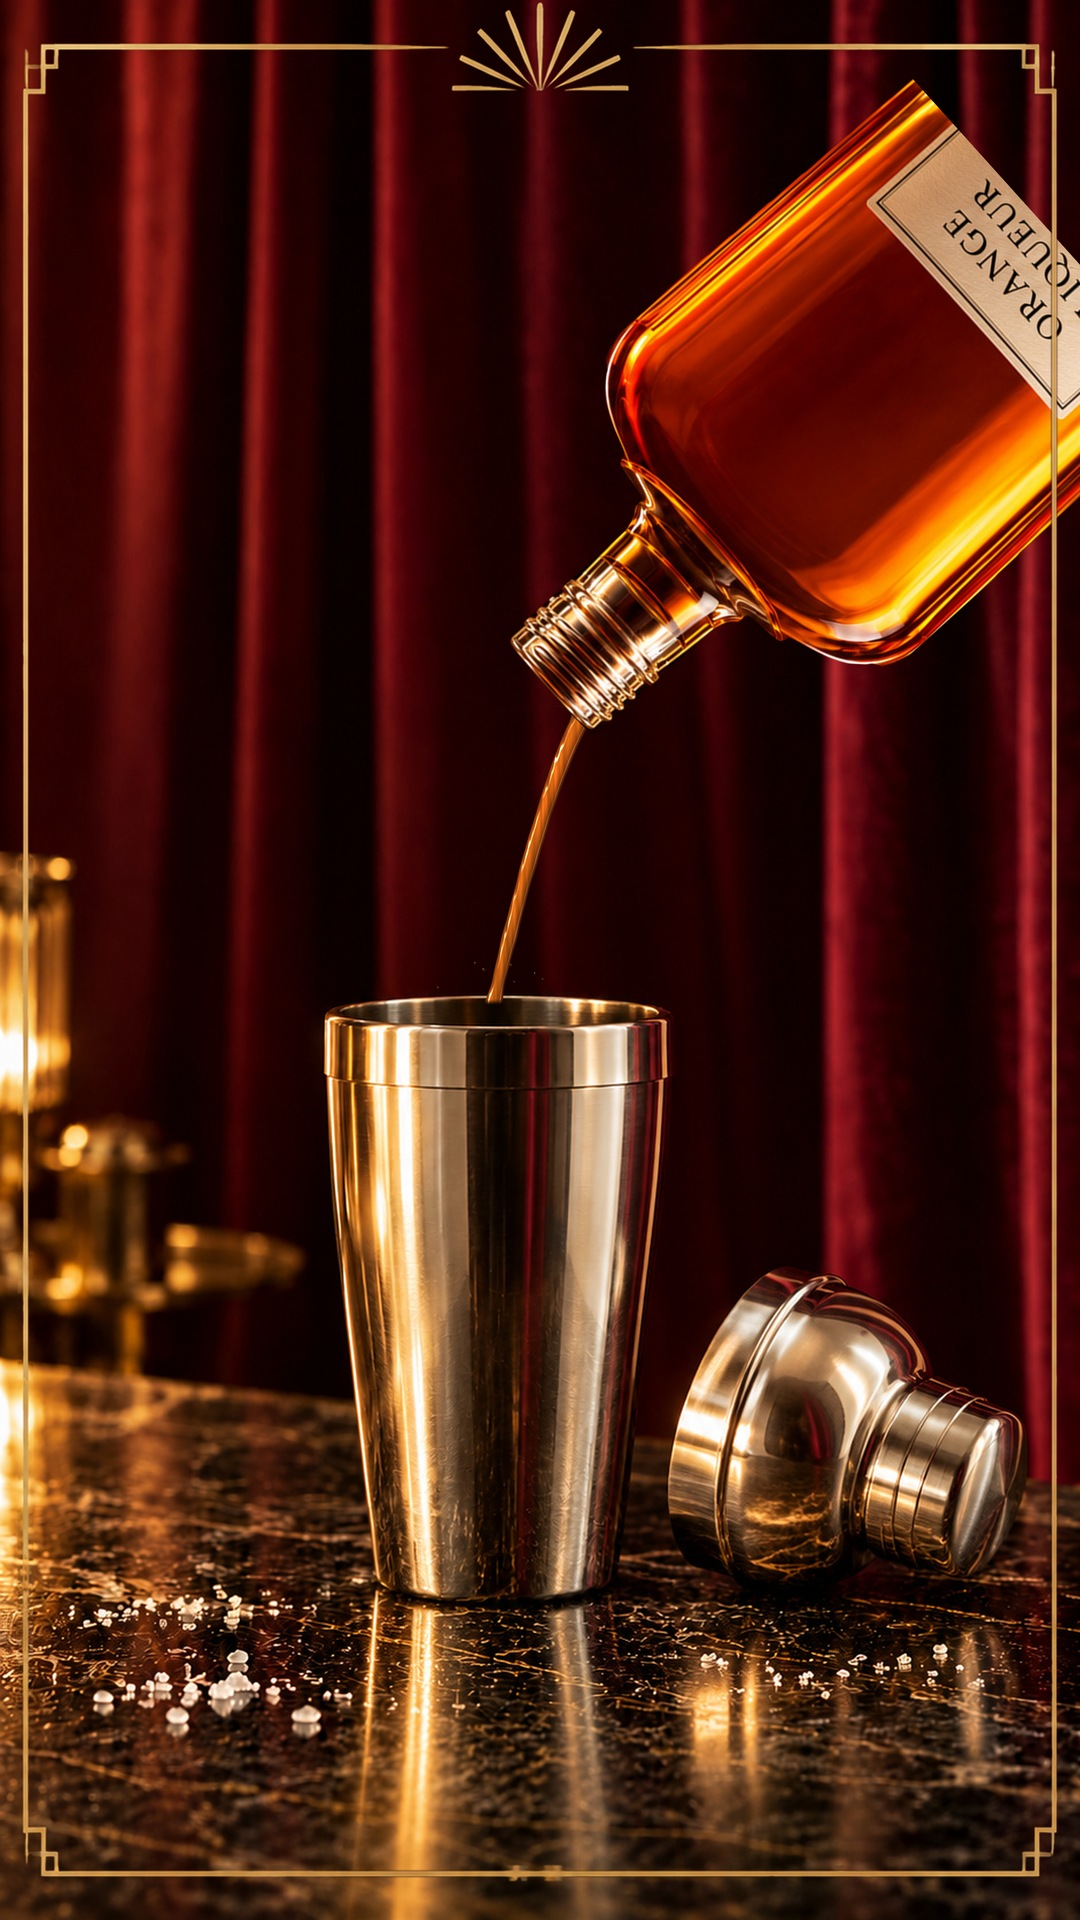
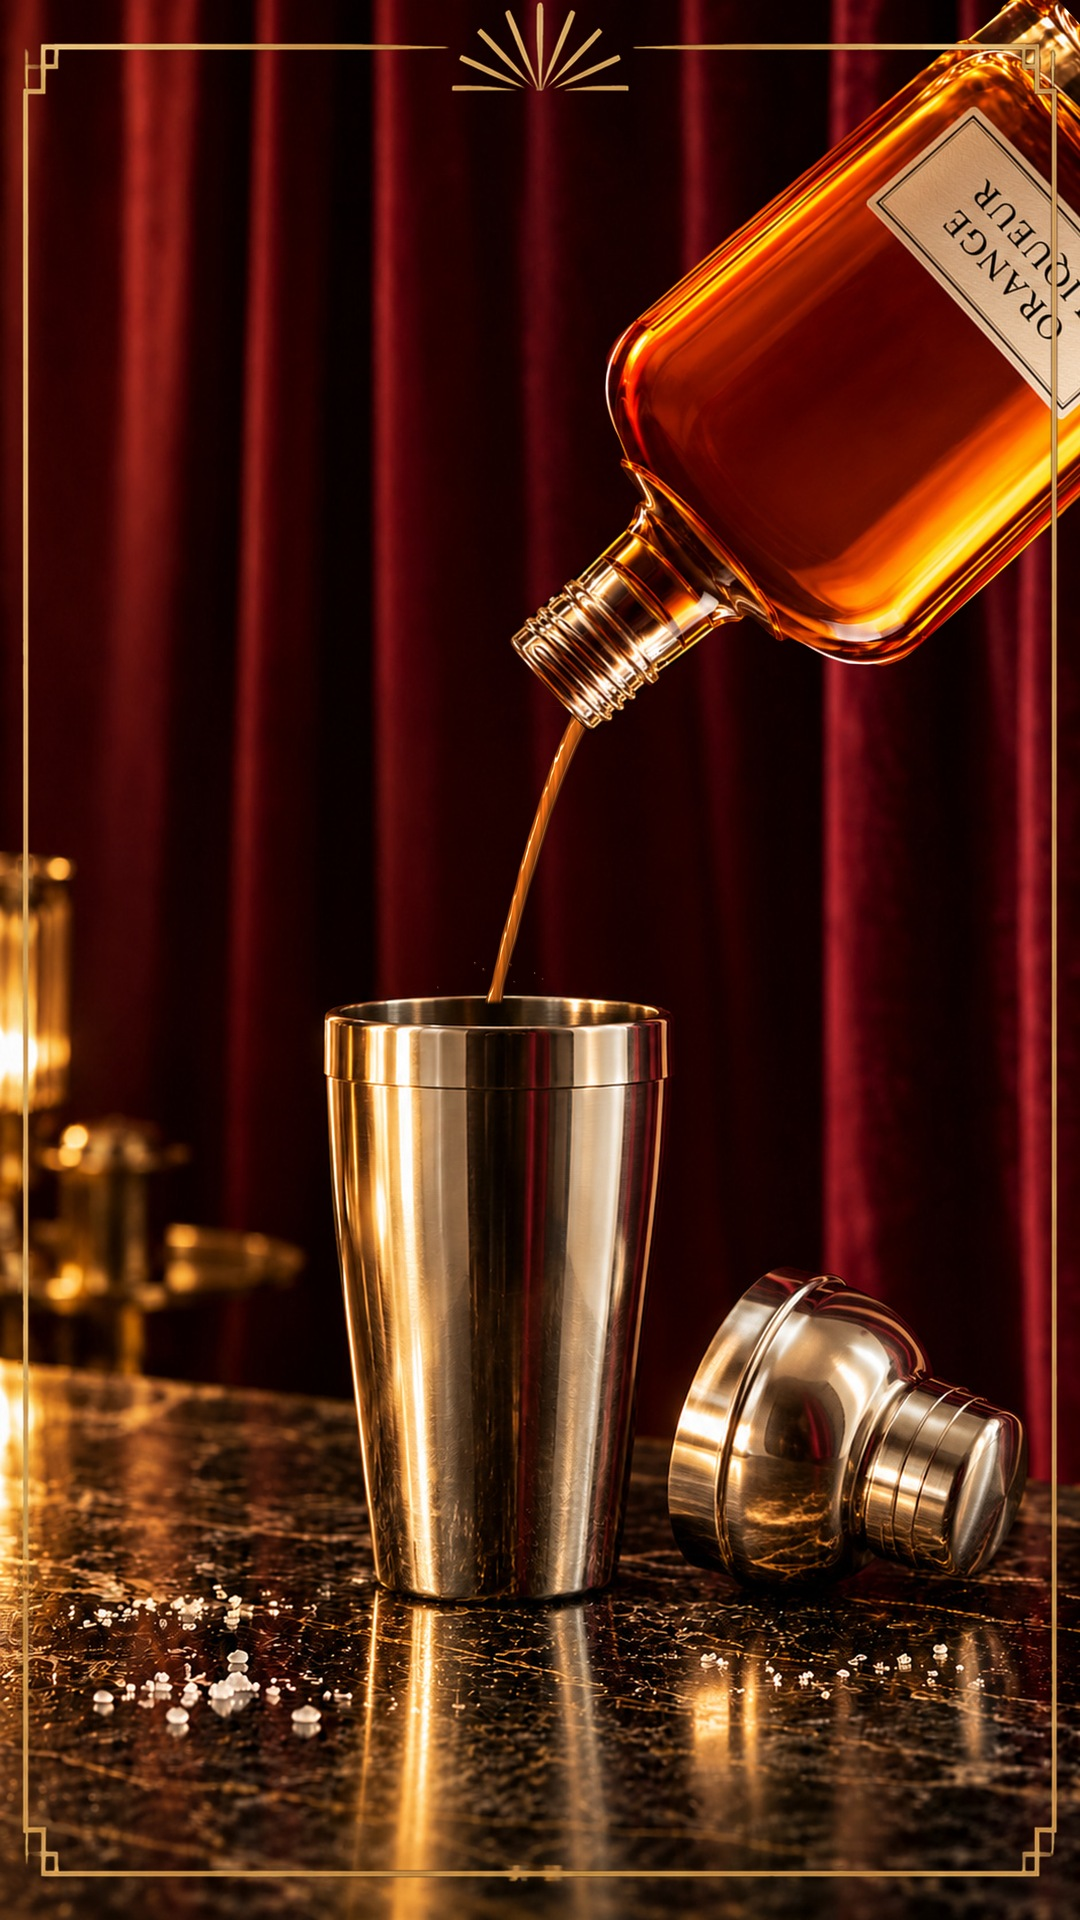
Mockups: whole bottles, base always leaves the frame so they don't float
Claude-Session: https://claude.ai/code/session_01EEpNwx872eLZ2xaMewC3AP

Changed region(s): [[0.8556, 0.0, 1.0, 0.1562]]

diff --git a/cocktails/_mockups/pour-scenes/scenes.py b/cocktails/_mockups/pour-scenes/scenes.py
@@ -5,9 +5,10 @@ from lib import *
 
 ONLY = set(sys.argv[1:])
 BOTTLES = {  # кадр, прямоугольник для GrabCut, горлышко (добавка к маске), центр горлышка сверху
-    'tequila': ('tequila-full', (295, 505, 642, 1250), (406, 515, 530, 760), (468, 515), 'clear'),
-    'liqueur': ('liqueur-full', (266, 655, 664, 1260), (408, 668, 523, 800), (465, 668), 'amber'),
-    'lime': ('lime-juice-full', (340, 772, 602, 1260), (398, 782, 542, 870), (470, 782), 'lime'),
+    # прямоугольник — до самого дна: бутылка целиком, её низ потом уводим за край кадра
+    'tequila': ('tequila-full', (295, 505, 642, 1378), (406, 515, 530, 760), (468, 515), 'clear'),
+    'liqueur': ('liqueur-full', (266, 655, 664, 1400), (408, 668, 523, 800), (465, 668), 'amber'),
+    'lime': ('lime-juice-full', (340, 772, 602, 1400), (398, 782, 542, 870), (470, 782), 'lime'),
 }
 
 
@@ -35,15 +36,24 @@ def s01():  # бокал въезжает справа
 def pour_bottle(key, n):
     name, rect, neck, mouth, kind = BOTTLES[key]
     img = load('shaker-open')
-    rgb, a, _ = bottle_cutout(name, rect, neck)
-    to = (478, 600)
+    rgb, a, axis = bottle_cutout(name, rect, neck)
+    to, ANG = (478, 600), 132
+    # масштаб подбираем так, чтобы дно бутылки целиком ушло за край кадра: бутылка не висит в воздухе
+    base = [(rect[0], rect[3]), (rect[2], rect[3]), (axis, rect[3])]
+    for scale in np.arange(1.0, 2.01, .05):
+        M = cv2.getRotationMatrix2D(mouth, ANG, scale)
+        M[:, 2] += [to[0] - mouth[0], to[1] - mouth[1]]
+        pts = [M @ np.array([x, y, 1.0]) for x, y in base]
+        if all(px > PW + 20 or py < -20 for px, py in pts):
+            break
+    print(key, 'scale', round(float(scale), 2))
     if kind == 'clear':
         # прозрачная бутылка: переносим только её вклад (стекло, блики, этикетку), штора сквозь неё — новая
         delta = rgb - load('scene-empty')
-        d2, a2 = transform(delta + 1, a, mouth, 132, 1.0, to)
+        d2, a2 = transform(delta + 1, a, mouth, ANG, scale, to)
         layer = ('delta', d2 - 1, a2)
     else:
-        layer = ('over',) + transform(rgb, a, mouth, 132, 1.0, to)
+        layer = ('over',) + transform(rgb, a, mouth, ANG, scale, to)
     # жидкость стекает с нижней губы горлышка: из краёв горлышка берём тот, что оказался ниже
     lips = [tpt((mouth[0] + dx, mouth[1] + 6)) for dx in (-50, -30, 0, 30, 50)]
     sx, sy = max(lips, key=lambda p: p[1])
